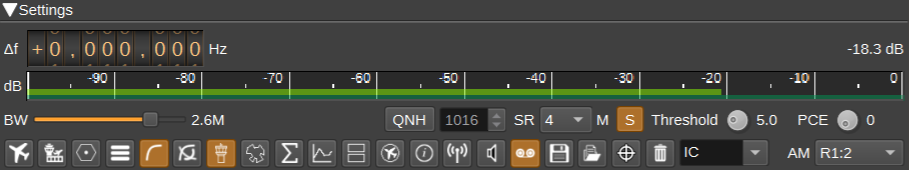
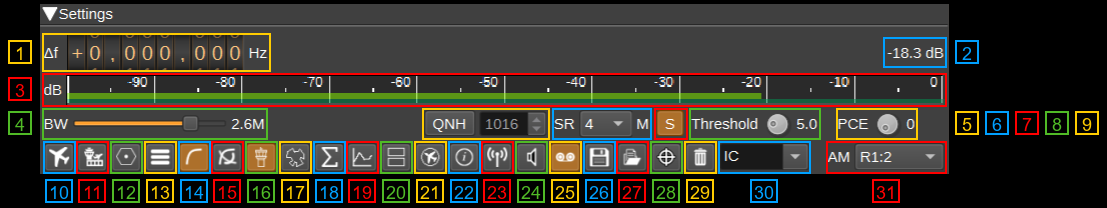
Update ADSB docs.

diff --git a/plugins/channelrx/demodadsb/readme.md b/plugins/channelrx/demodadsb/readme.md
@@ -64,19 +64,19 @@ This sets the correlation threshold in dB between the received signal and expect
 
 Specifies the allowed number of errors in Mode S preambles. Higher values may allow more frames to be received, but increases the chance of decoding invalid frames.
 
-<h3>9: Download Aircraft Database</h3>
+<h3>10: Download Aircraft Database</h3>
 
 Clicking this will download the aircraft database. This database contains information about aircraft, such as registration, aircraft model, owner details and also airline routes, that is not broadcast via ADS-B. Once downloaded, this additional information will be displayed in the table alongside the ADS-B data. The database should only need to be downloaded once, as it is saved to disk, and it should be downloaded before starting the demodulator.
 
-<h3>10: Download OurAirports Airport Databases</h3>
+<h3>11: Download OurAirports Airport Databases</h3>
 
 Clicking this will download the [OurAirports](https://ourairports.com/) airport databases. These contains names and locations for airports allowing them to be drawn on the map, as well as their corresponding ATC frequencies, which can also be displayed next to the airport on the map, by clicking the airport name. The size of airports that will be displayed on the map, and whether heliports are displayed, can be set in the Display Settings dialog.
 
-<h3>11: Download OpenAIP Airspace and NAVAID Databases</h3>
+<h3>12: Download OpenAIP Airspace and NAVAID Databases</h3>
 
 Clicking this will download the [OpenAIP](https://www.openaip.net/) airspace and NAVAID databases. These can be displayed on the map. The airspace categories to be displayed can individually be selected in the Display Settings dialog.
 
-<h3>12: Display Settings</h3>
+<h3>13: Display Settings</h3>
 
 Clicking the Display Settings button will open the Display Settings dialog, which allows you to choose:
 
@@ -114,24 +114,24 @@ Map:
 * The colour palette to use for aircraft flight paths.
 * Whether aircraft are displayed using icons showing their airline's livery, instead of black icons. Livery icons are matched from the aircraft type and operator, in the same way as 3D models. Aircraft without a matching livery icon are displayed with a white version of the plain icon. Livery icons are sized proportionally to the real aircraft, so an A380 will appear larger than an A320.
 
-<h3>13: Display Flight Path</h3>
+<h3>14: Display Flight Path</h3>
 
 Checking this button draws a line on the map showing the highlighted aircraft's flight paths, as determined from received ADS-B frames. The path can be coloured according to altitude. The colour palette for this can be set in Display Settings.
 
 Each palette has 8 colours, one for each 5,000 ft. For the Spectral palette, 0-5000 ft is red and above 35,000 ft is blue.
 
-<h3>14: Display All Flight Paths</h3>
+<h3>15: Display All Flight Paths</h3>
 
 Checking this button draws flight paths for all aircraft.
 
 ![ADS-B Demodulator All Flight Paths](../../../doc/img/ADSBDemod_plugin_map2.png)
 
-<h3>14: ATC Mode</h3>
+<h3>16: ATC Mode</h3>
 
 When in ATC mode, the map will display callsign, route, altitude, ground speed and type, as well as the last 25 seconds of it flight path for all aircraft.
 When unchecked, only callsign (or ICAO, until callsign is received) will be displayed.
 
-<h3>15: Receiver Coverage Map</h3>
+<h3>17: Receiver Coverage Map</h3>
 
 When checked, a receiver coverage map will be displayed. This will show the maximum distance a frame has been received from in each direction.
 The yellow region is for frames freceived from aircraft above 10,000 ft, with the green region for below 10,000 ft.
@@ -140,7 +140,7 @@ Right clicking on the button will clear the coverage map data.
 
 ![ADS-B Demodulator coverage map](../../../doc/img/ADSBDemod_plugin_coverage.png)
 
-<h3>16: Display Statistics</h3>
+<h3>18: Display Statistics</h3>
 
 When checked, a statistics table will be displayed. This table contains statistics such as:
 
@@ -157,7 +157,7 @@ The statistics can be reset by right clicking the button.
 
 ![ADS-B Demodulator coverage map](../../../doc/img/ADSBDemod_plugin_stats.png)
 
-<h3>17: Display Chart</h3>
+<h3>19: Display Chart</h3>
 
 When checked, a chart will be displayed that shows ADS-B and Mode S frame rates in fps (frames per second) as well as the total number of aircraft frames have been received from in the last 10 seconds.
 The chart is updated every second. Data older than 10 minutes is averaged over a minute, in order to keep the number of data points managable.
@@ -167,25 +167,25 @@ Series can be hidden/shown by clicking on the corresponding label in the legend.
 
 ![ADS-B Demodulator coverage map](../../../doc/img/ADSBDemod_plugin_chart.png)
 
-<h3>18: Display Orientation</h3>
+<h3>20: Display Orientation</h3>
 
 Check to display the ADS-B table and map side by side. Uncheck for table on top of the map.
 
-<h3>19: Display Containment Radius</h3>
+<h3>21: Display Containment Radius</h3>
 
 When checked, an aircraft's horizontal containment radius (Rc) will be drawn as a red circle around an aircraft on the map. This circle represents the aircraft's uncertainty in its reported position.
 
 ![ADS-B Demodulator coverage map](../../../doc/img/ADSBDemod_plugin_radius.png)
 
-<h3>20: Download flight information for selected flight</h3>
+<h3>22: Download flight information for selected flight</h3>
 
 When clicked, flight information (departure and arrival airport and times) is downloaded for the aircraft highlighted in the ADS-B data table using the aviationstack.com API.
 To be able to use this, a callsign for the highlighted aircraft must have been received. Also, the callsign must be mappable to a flight number, which is not always possible (this is typically
 the case for callsigns that have a letter in the last 3 digits, as for these, some digits from the flight number will have been omitted).
 
-To use this feature, an [aviationstack](https://aviationstack.com) API Key must be entered in the Display Settings dialog (12). A free key giving 500 API calls per month is [available](https://aviationstack.com/product).
+To use this feature, an [aviationstack](https://aviationstack.com) API Key must be entered in the Display Settings dialog (13). A free key giving 500 API calls per month is [available](https://aviationstack.com/product).
 
-<h3>21: Feed</h3>
+<h3>23: Feed</h3>
 
 Checking Feed enables feeding received ADS-B frames to aggregators such as [Airplanes.Live](https://www.airplanes.live/), [ADS-B Exchange](https://www.adsbexchange.com), [ADSBHub](https://www.adsbhub.org) or [OpenSky Network](https://opensky-network.org/)
 and receiving aircraft state from anywhere in the world from [OpenSky Network](https://opensky-network.org/). Right clicking on the Feed button opens the Feed Settings dialog.
@@ -211,7 +211,7 @@ See the [OpenSky REST API documentation](https://openskynetwork.github.io/opensk
 
 To limit network traffic and processing power requirements, a geographical region can be set via the minimum and maximum latitude and longitude fields.
 
-<h3>22: Open Notifications Dialog</h3>
+<h3>24: Open Notifications Dialog</h3>
 
 When clicked, opens the Notifications Dialog, which allows speech notifications or programs/scripts to be run when aircraft matching user-defined rules are seen.
 
@@ -312,33 +312,33 @@ In the Speech and Command strings, variables can be used to substitute in data f
 * ${eta}
 * ${ata}
 
-<h3>23: Start/stop Logging ADS-B frames to .csv File</h3>
+<h3>25: Start/stop Logging ADS-B frames to .csv File</h3>
 
 When checked, writes all received ADS-B frames to a .csv file.
 
-<h3>24: .csv Log Filename</h3>
+<h3>26: .csv Log Filename</h3>
 
 Click to specify the name of the .csv file which received ADS-B frames are logged to.
 
-<h3>25: Read Data from .csv File</h3>
+<h3>27: Read Data from .csv File</h3>
 
 Click to specify a previously written ADS-B .csv log file, which is read and used to update the ADS-B data table and map.
 
-<h3>26: Find on Feature Map</h3>
+<h3>28: Find on Feature Map</h3>
 
 Click to find the currently selected aircraft on a [Map Feature](../../feature/map/readme.md).
 
-<h3>27: Delete All Aircraft</h3>
+<h3>29: Delete All Aircraft</h3>
 
 Click to delete all aircraft from the table and map.
 
-<h3>28: IC - Interrogator Code</h3>
+<h3>30: IC - Interrogator Code</h3>
 
 The IC dropdown contains a checkable list of Mode S IC (Interrogator Codes) that have been received. When checked, an ellipse in the corresponding colour is drawn on the map showing the location of all the aircraft that have responded to that IC.
 
 ![ADS-B IC Coverage](../../../doc/img/ADSBDemod_plugin_ic.png)
 
-<h3>29: AM Demod</h3>
+<h3>31: AM Demod</h3>
 
 Specify the AM Demodulator that will be have its centre frequency set when an airport ATC frequency is clicked on the map.
 
@@ -456,7 +456,7 @@ Aircraft are only placed upon the map when a position can be calculated, which c
 * Left clicking the information box next to an airport will reveal ATC frequencies for the airport (if the OurAirports database has been downloaded) and METAR weather information (if the CheckWX API key has been entered).
 The METAR for the airport is downloaded each time the information box is opened.
 This information box can be closed by left clicking on the airport identifier.
-Double clicking on one of the listed frequencies, will tune the AM Demod (29) to that frequency.
+Double clicking on one of the listed frequencies, will tune the AM Demod (31) to that frequency.
 The Az/El row gives the azimuth and elevation of the airport from the location set under Preferences > My Position. Double clicking on this row will set the airport as the active target.
 * Right clicking on an airport will display a popup menu, allowing range rings to be shown or hidden, and for the ATC frequencies for the airport to be send to a Frequency Scanner.
 
